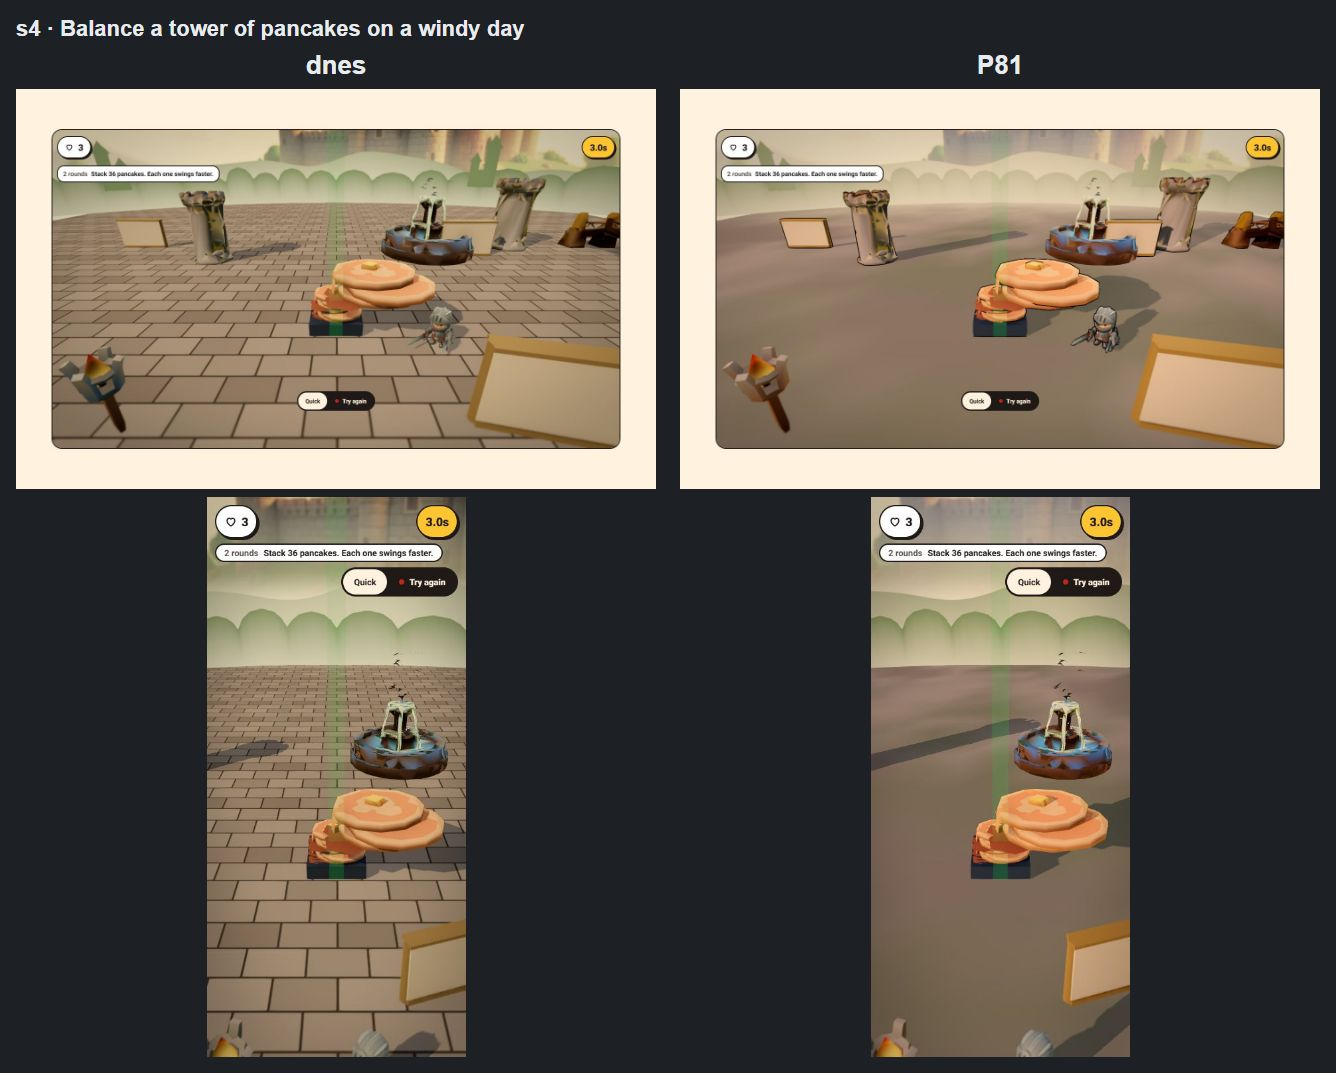
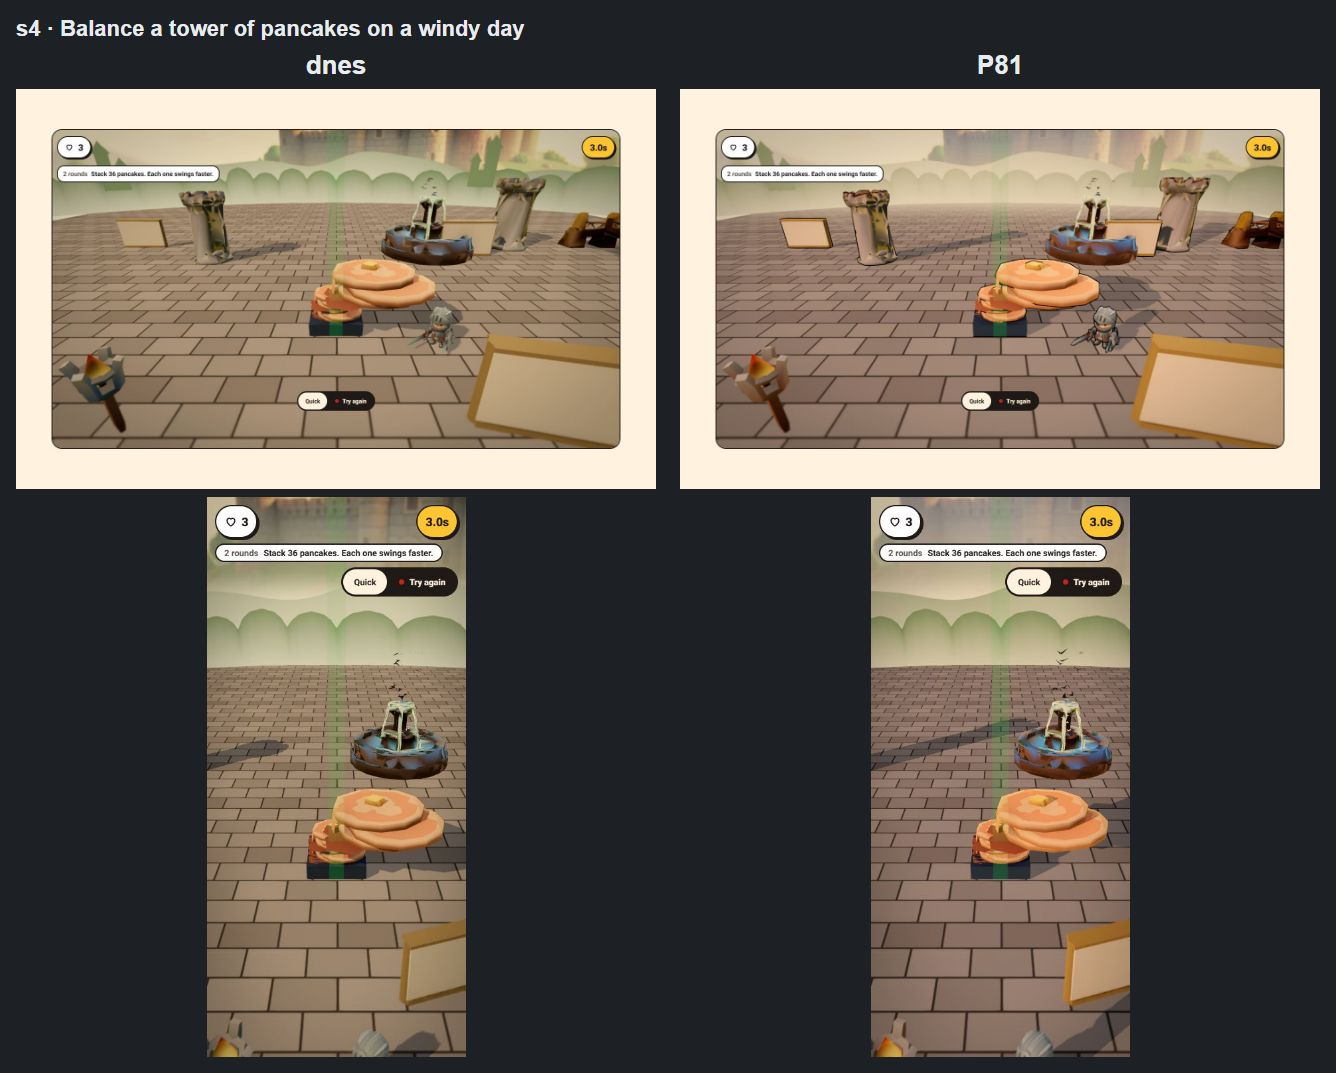
docs(play): P81 tiles back on s3, s4 and s8 shots
Shots s3, s4, s8 and grass control s11 (desktop + phone) on the R6 build in evals/play/p81/r6, sheets against base, main sheets s3/s4/s8 refreshed. Tiles visible on all three; centre hue vs base s3 1, s4 6, s8 6, s11 9 deg (limit 15); purple at most 0.17 %. Tiled places on base: only s3, s4, s8 (r6.md).

diff --git a/evals/play/p81/r6.md b/evals/play/p81/r6.md
@@ -1,0 +1,28 @@
+# P81 R6 – kde byly dlaždice, zůstanou dlaždice
+
+Majitel 10. 11. po listech před/po: „vše good, jen tam kde byly dlaždice nech dlaždice“.
+
+## Které hry měly dlažbu na `main` (`evals/play/p81/base/`, všech 12 her prošlých okem)
+
+| Hra | Místo | Vzhled sady | Dlažba na `main` | Po T4/T5 | Po R6 |
+|---|---|---|---|---|---|
+| s3 | střechy (aréna) | `city`, kryt `paving` | ano, kámen na vazbu | hladká zem se skvrnami | dlažba zpět |
+| s4 | věž z palačinek (pole) | `castle`, interiér `stone` | ano, textura dlažby | kámen bez spár | dlažba zpět |
+| s8 | starý hrad (pole) | `castle`, interiér `stone` | ano, textura dlažby | kámen bez spár | dlažba zpět |
+| s1, s2, s5, s6, s7, s9, s10, s11, s12 | sopka, podmoří, ostrůvky, vesmír, minigolf, město v bouřce (trať), sad, cukrová země, sníh | – | ne (tráva, písek, skála, sníh, cesta) | beze změny z T4 | beze změny z T4 |
+
+s9 je město, ale hra běží po trati (asfalt), dlažbu arény nekreslí – na `base/` dlaždice nemá.
+
+## Co se změnilo v kódu
+
+- Aréna: interiér klade dlažbu svého povrchu, kryt `paving` (město, hrad venku) hradní dlažbu – jako `main`.
+- Zem polí (`buildFieldGround`): interiér má zase bílé vrcholy a texturu dlažby, i hradní nádvoří.
+- Rozměr a vazba dlaždic beze změny proti `main`; barvy jdou přes profil P81 (teplé nízké slunce, ladění).
+- Tráva, písek, sníh a skála zůstávají podle T4 (měkké skvrny, val za hranou).
+
+## Snímky (`evals/play/p81/r6/`, listy `r6/sheets/`, rozdíl `r6-diff.md`)
+
+- Dlažba je vidět na s3, s4 i s8 na desktopu i telefonu, bez neonu.
+- Odstín středu proti `base/`: s3 1°, s4 6°, s8 6°, kontrola trávy s11 9° (stejně jako T7) – mez 15°.
+- Fialová nejvýš 0,17 % snímku (s11, květy modelu – jako T7).
+- Hlavní listy `sheets/s3.jpg`, `s4.jpg`, `s8.jpg` přefocené z `r6/`.

diff --git a/evals/play/p81/r6-diff.md b/evals/play/p81/r6-diff.md
@@ -1,0 +1,16 @@
+# P81 rozdíl snímků: `evals/play/p81/base` → `evals/play/p81/r6`
+
+Práh: kanál se pohnul o víc než 24/255. Odstín středu = kruhový průměr vážený sytostí ve výřezu x 0.35–0.65, y 0.4–0.8.
+
+- Snímků v obou složkách: 24
+- **Medián desktop-1play: 17.9 %**, nejmenší 15.2 %
+- Medián všech snímků: 20.0 %
+- Největší posun odstínu středu (desktop-1play): 9°
+- Fialová (odstín 250–320°, chroma ≥ 24): nejvíc 0.03 % snímku před, 0.17 % po
+
+| Hra | desktop start | desktop 3 s | desktop 8 s | telefon start | telefon 3 s | telefon 8 s | odstín středu 3 s (před → po, posun) | fialová nejvíc (před → po) |
+|---|---|---|---|---|---|---|---|---|
+| s3 | 20.0 % | 15.2 % | 26.3 % | 18.8 % | 26.6 % | 54.2 % | 31° → 30°, 1° | 0.01 % → 0.00 % |
+| s4 | 14.7 % | 20.0 % | 18.7 % | 13.8 % | 17.2 % | 17.1 % | 30° → 24°, 6° | 0.00 % → 0.03 % |
+| s8 | 13.9 % | 15.8 % | 15.9 % | 27.9 % | 20.4 % | 19.9 % | 32° → 26°, 6° | 0.00 % → 0.01 % |
+| s11 | 32.7 % | 44.0 % | 28.6 % | 36.2 % | 57.9 % | 48.8 % | 32° → 22°, 9° | 0.03 % → 0.17 % |
